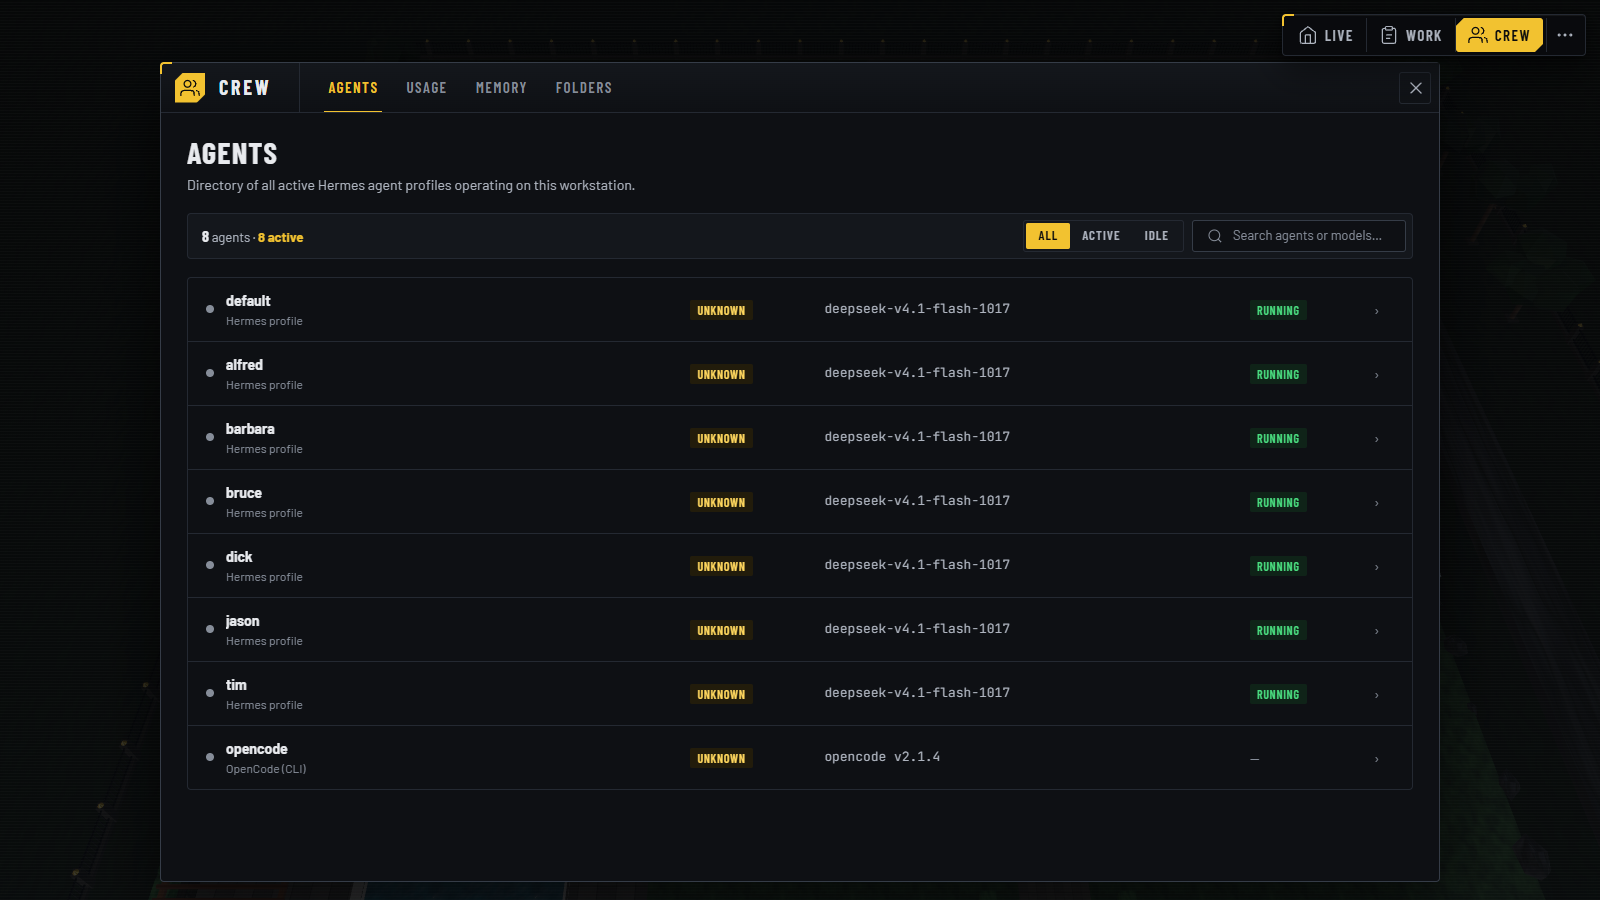
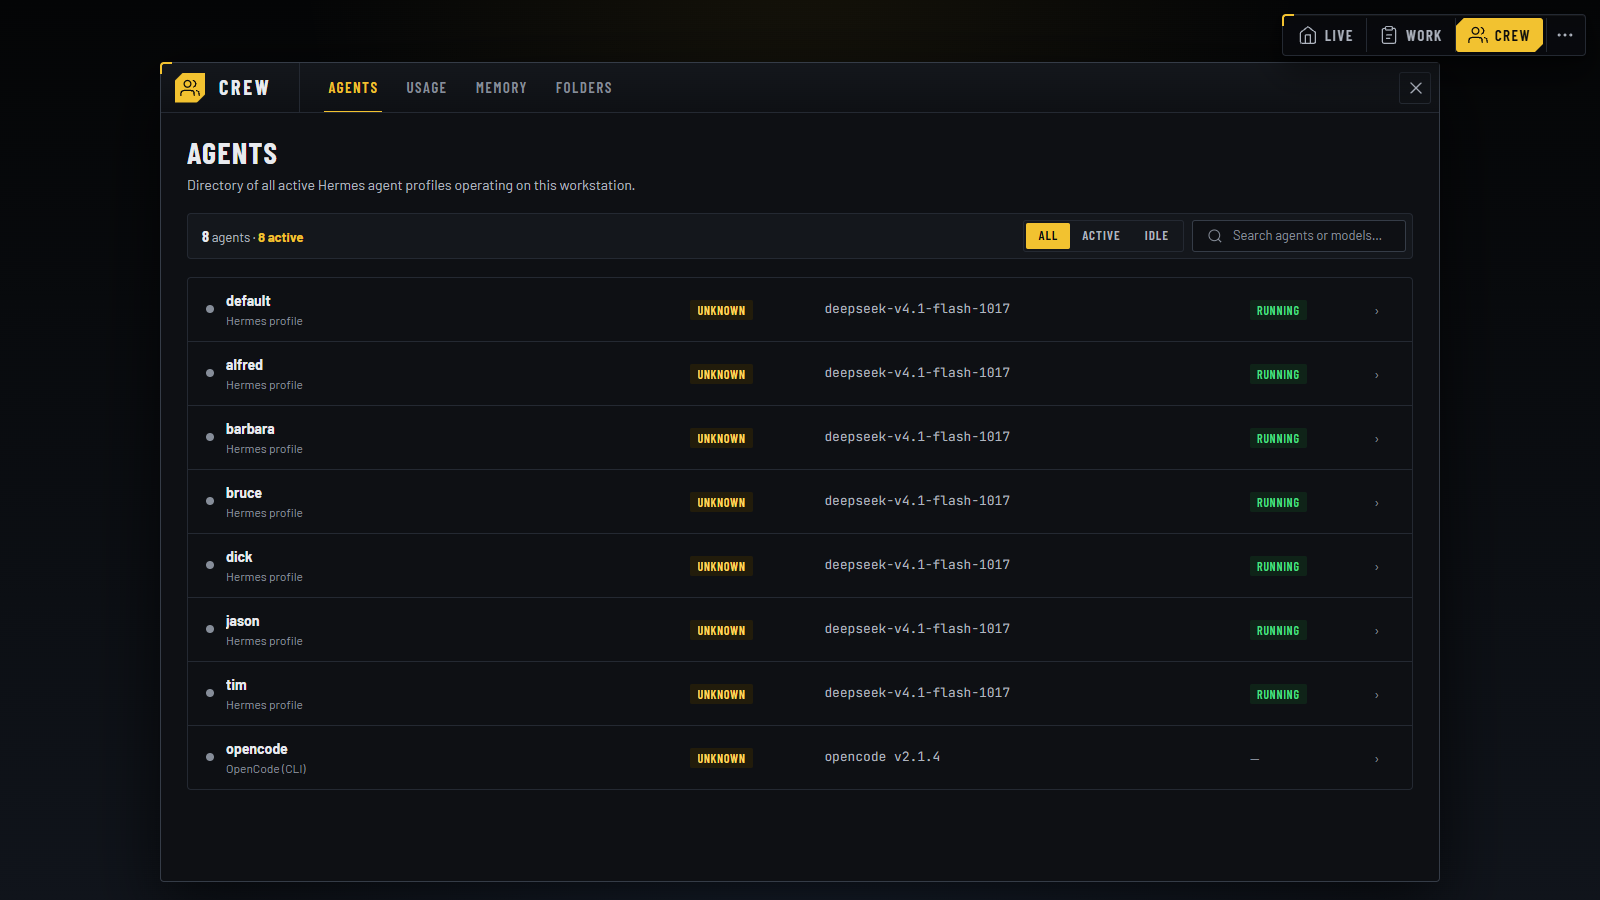
docs: refresh README screenshots (manor and Batcave at the default camera, crew, briefing)

diff --git a/scripts/verify/capture-screenshots.py b/scripts/verify/capture-screenshots.py
@@ -1,8 +1,15 @@
-"""Captures the README screenshots from a running Batcave (built UI).
+"""Captures the README screenshots from a running Batcave.
 
 Usage:  python scripts/verify/capture-screenshots.py [base_url] [out_dir]
 Needs:  pip install playwright && playwright install chromium
-Run against `npm run build && npm start`. Works on Windows and Linux.
+
+Two sources of agents:
+  - Real data: run `npm run build && npm start` and use the default base URL (http://127.0.0.1:3001).
+  - Mock crew: the `?mockAgents=N` URL flag only works in the development build, so use
+    `npm run dev` and pass its address (http://localhost:5173). Shots with a query use the mock crew.
+
+The 3D manor opens at the default camera (about 60 degrees). Batcave (the command deck) is
+reached with the `]` key, which moves one floor down.
 """
 import os
 import sys
@@ -14,22 +21,24 @@ base = sys.argv[1] if len(sys.argv) > 1 else 'http://127.0.0.1:3001'
 out = sys.argv[2] if len(sys.argv) > 2 else os.path.join(ROOT, 'docs', 'screenshots')
 os.makedirs(out, exist_ok=True)
 
-# (file name, route hash, seconds to settle, optional button label to click first)
+# (file name, query, route hash, seconds to settle, keys pressed first, button to click first)
 SHOTS = [
-  ('live', '#/batcave', 14, None),
-  ('briefing', '#/batcave', 3, 'Briefing'),
-  ('agents', '#/agents', 6, None),
-  ('settings', '#/settings', 5, None),
+  ('manor', '?mockAgents=12', '#/batcave', 14, '', None),
+  ('batcave', '?mockAgents=12', '#/batcave', 12, ']', None),
+  ('briefing', '?mockAgents=12', '#/batcave', 4, '', 'Briefing'),
+  ('agents', '', '#/agents', 6, '', None),
+  ('settings', '', '#/settings', 5, '', None),
 ]
 
 with sync_playwright() as p:
   browser = p.chromium.launch(headless=True, args=['--no-sandbox', '--use-angle=swiftshader', '--enable-unsafe-swiftshader'])
   page = browser.new_page(viewport={'width': 1600, 'height': 900})
-  page.goto(f'{base}/{SHOTS[0][1]}')
-  for name, route, wait, button in SHOTS:
-    if not (button and page.evaluate('location.hash') == route):
-      page.evaluate(f"location.hash = '{route}'")
+  for name, query, route, wait, keys, button in SHOTS:
+    page.goto(f'{base}/{query}{route}')
     time.sleep(wait)
+    if keys:
+      page.keyboard.press(keys)
+      time.sleep(6)
     if button:
       page.get_by_role('button', name=button).first.click()
       time.sleep(2)

diff --git a/README.md b/README.md
@@ -4,7 +4,9 @@ A 3D command center for your [Hermes Agent](https://hermes-agent.nousresearch.co
 
 Batcave is read-only. It collects everything through `hermes` and `opencode` CLI queries and never writes to your agent workspaces or databases. It runs on **Windows**, **Linux**, and **macOS**.
 
-![The 3D Batcave with the crew card and dock](docs/screenshots/live.png)
+![The manor from the default camera, with the crew and dock](docs/screenshots/manor.png)
+
+![The Batcave command deck with the crew at work](docs/screenshots/batcave.png)
 
 ![The Briefing panel with live counters](docs/screenshots/briefing.png)
 
@@ -234,10 +236,10 @@ npm run dev        # Vite client on :5173, API on :3001
 | `npm run verify:gate` | Checks that every route differs from the baseline UI |
 | `npm run build` | Build the UI and the server into `dist/` and `build/` |
 
-Browser checks and screenshots live in `scripts/verify/` (Playwright, any OS). To refresh the README screenshots, start a built Batcave and run:
+Browser checks and screenshots live in `scripts/verify/` (Playwright, any OS). To refresh the README screenshots, run `npm run dev` (its mock crew only appears in development) and run:
 
 ```bash
-python scripts/verify/capture-screenshots.py http://127.0.0.1:3001 docs/screenshots
+python scripts/verify/capture-screenshots.py http://localhost:5173 docs/screenshots
 ```
 
 CI runs lint, tests, build, and the package smoke test on Ubuntu and Windows.
